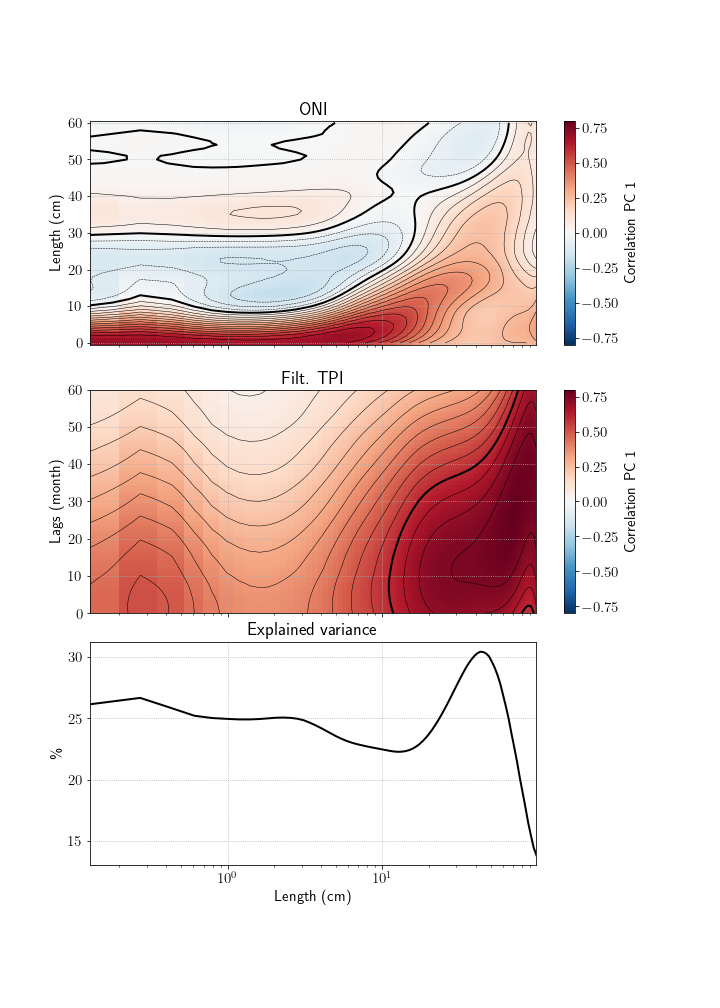
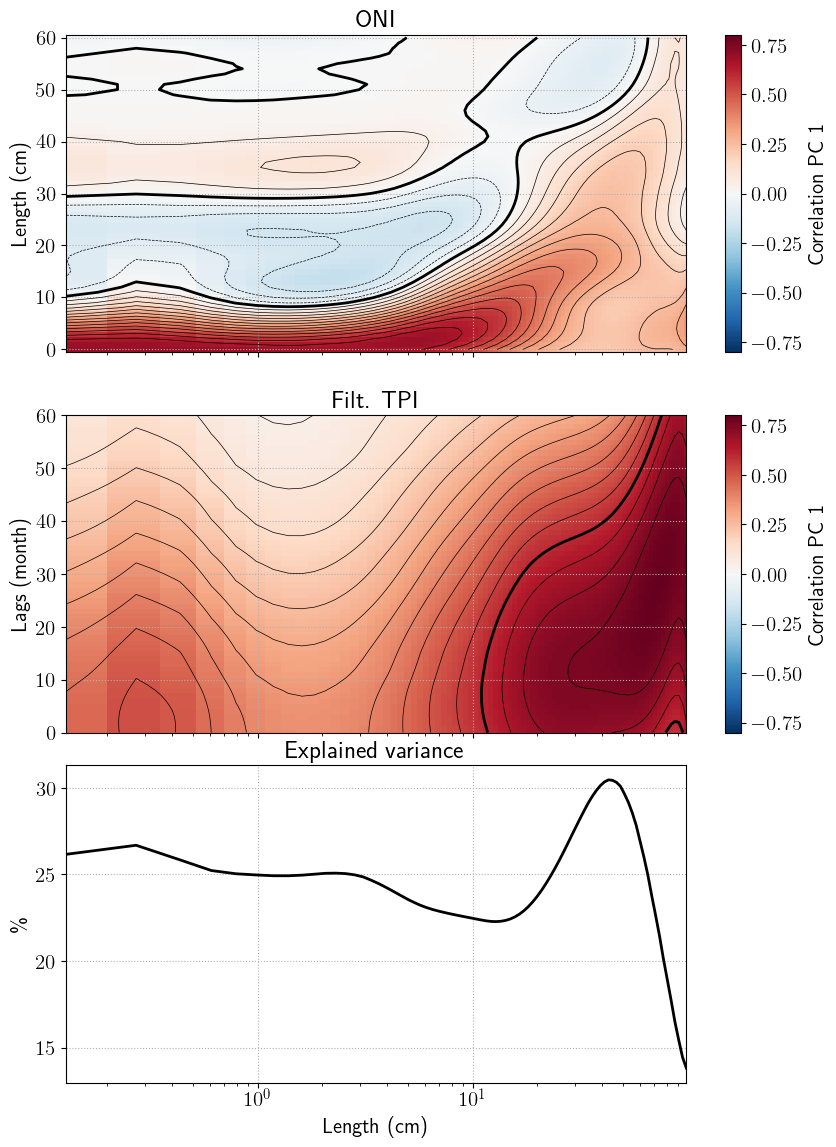
Remove blank space

diff --git a/scripts/new-97/plot_lagged_correlations_eof_nino_ipo.py b/scripts/new-97/plot_lagged_correlations_eof_nino_ipo.py
@@ -117,4 +117,4 @@ ax.set_xlim(length.min(), length.max())
 ax.set_ylabel('\%')
 ax.set_title('Explained variance')
 plt.grid(True)
-plt.savefig('correlations_eof_oni_tpi_eof_%d.png' %(eof + 1))
+plt.savefig('correlations_eof_oni_tpi_eof_%d.png' %(eof + 1), bbox_inches='tight')
